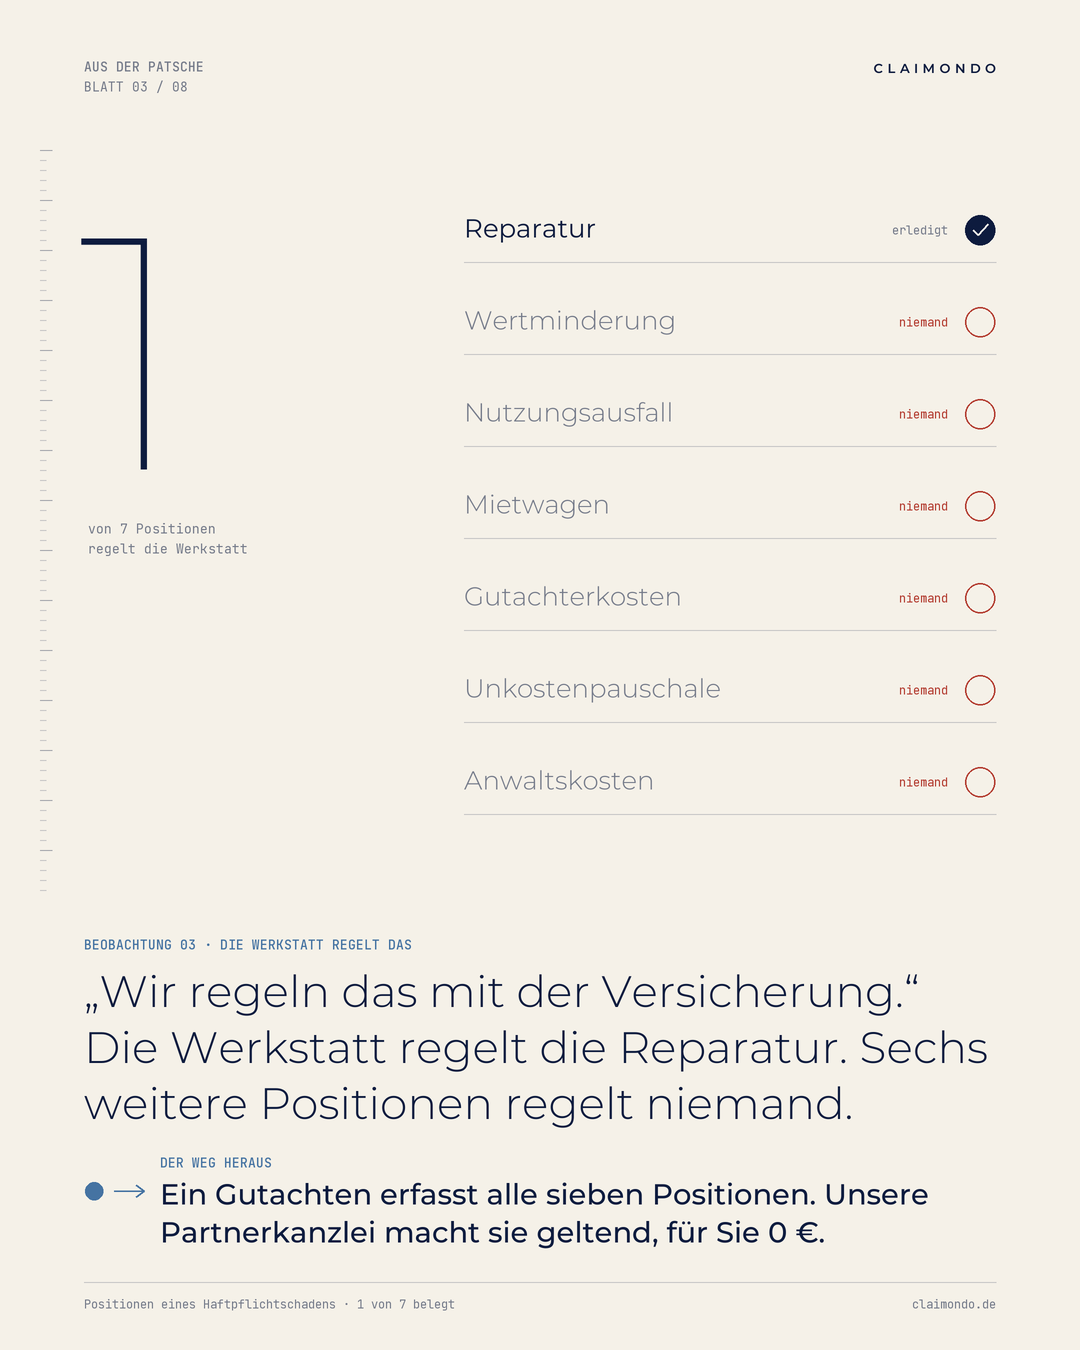
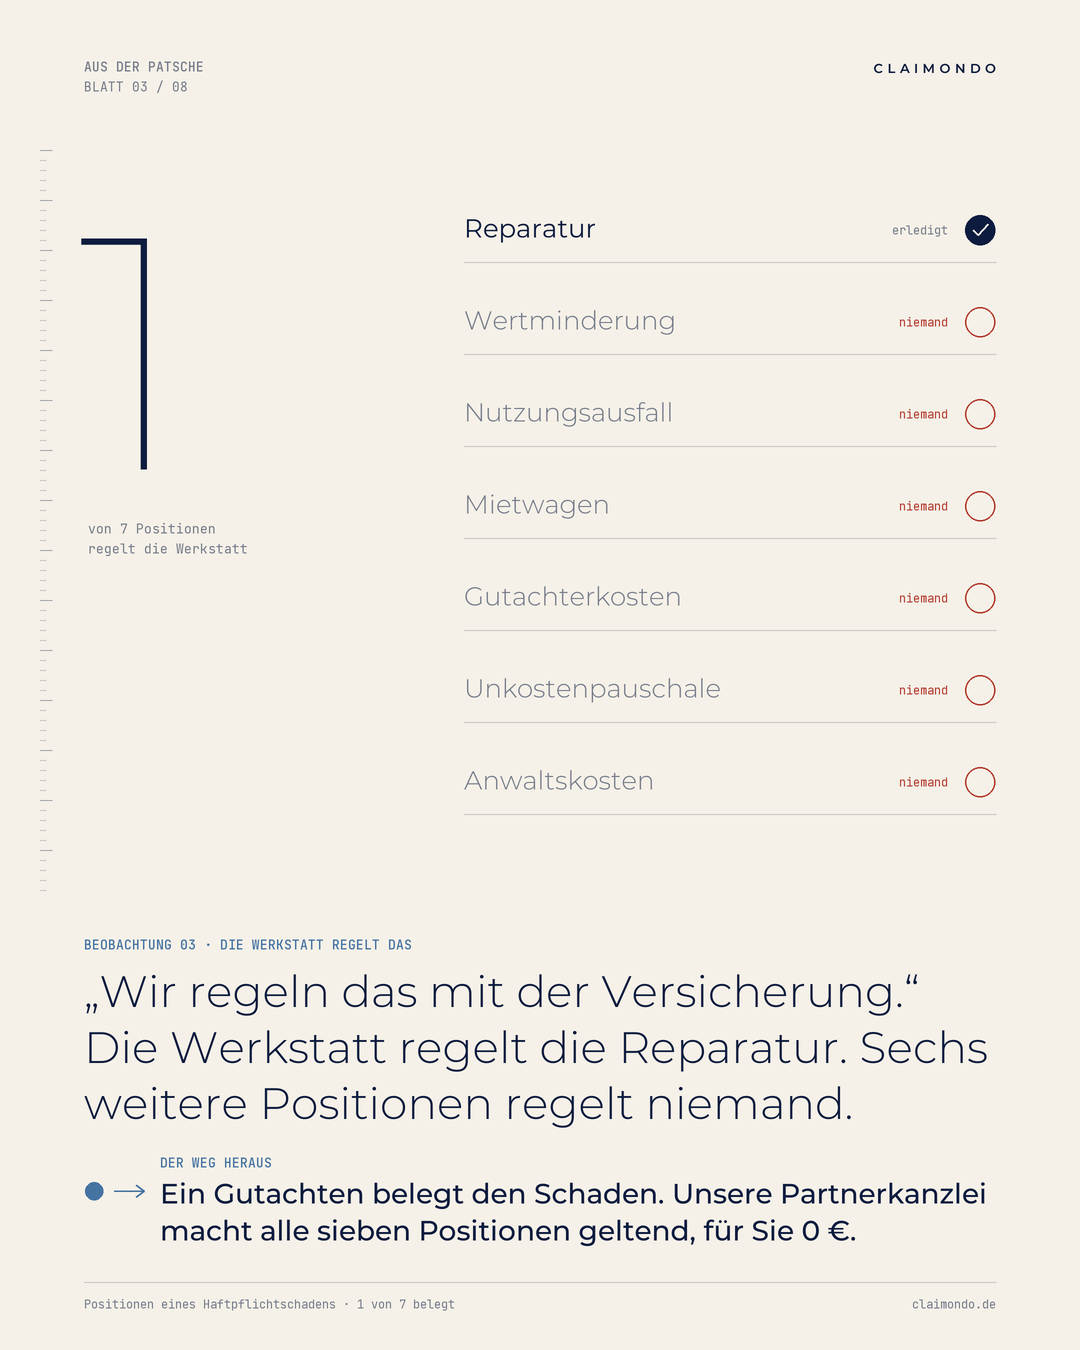
fix(marketing): Blatt 03 fachlich praezisiert + Copy-Lint-Ratchet verdrahtet (Abnahme-Befund)
Abnahme-Session (05.09.) zu #5876: "Ein Gutachten erfasst alle sieben Positionen" war
sachlich falsch — Mietwagen, Unkostenpauschale und Anwaltskosten sind Anspruchs-, keine
Gutachten-Positionen. Neu: "Ein Gutachten belegt den Schaden. Unsere Partnerkanzlei macht
alle sieben Positionen geltend, fuer Sie 0 EUR." (RDG-Subjekt bleibt die Partnerkanzlei).
Blatt 03 neu gerendert (Generator deterministisch, Repo- und Session-Render md5-identisch),
README und Vorschau nachgezogen. Auflage vor der Einbindung (anwaltliche Durchsicht der
absoluten Rechtsaussagen auf Blatt 02/06/07) in README und Abnahme-Datei eingetragen.

Anregung der Abnahme umgesetzt: die Bildtexte leben als String-Literale im Generator und
waren fuer check:copy-lint unsichtbar -> EXTRA_FILES im Scanner. Dabei aufgefallen: der
Scanner aus #5862 war nie verdrahtet (kein npm-Skript, kein CI-Step, keine Baseline) —
ein stummer Waechter. Jetzt: package.json check:copy-lint, CI-Step Copy-Lint-Ratchet,
Baseline mit 19 grandfathered Umlaut-Files (URLs/Slugs/Log-Strings + 1 echter UI-Treffer
haftpflicht/page.tsx "Komplexe Faelle" -> Boy-Scout), AGENTS.md-Abschnitt.
Positivkontrolle: Probe-Satz "Wir verhandeln direkt mit der Versicherung" im Generator
-> 1 RDG-Treffer, entfernt -> 0; --ratchet exit 0.

Audit:
- Build: n/a fuer Assets/Docs; node --check Scanner gruen, py_compile gruen, Ratchet exit 0
- UI: kein neuer Einstiegspunkt
- Redundanz: keine; Scanner-Erweiterung nutzt die bestehende Literal-Extraktion
[…]

Changed region(s): [[0.1528, 0.8711, 0.9167, 0.9333]]

diff --git a/docs/marketing/aus-der-patsche/generator.py b/docs/marketing/aus-der-patsche/generator.py
@@ -413,7 +413,7 @@ def sheet_03():
     chrome(
         sh, 3, "Beobachtung 03 · Die Werkstatt regelt das",
         "„Wir regeln das mit der Versicherung.“ Die Werkstatt regelt die Reparatur. Sechs weitere Positionen regelt niemand.",
-        "Ein Gutachten erfasst alle sieben Positionen. Unsere Partnerkanzlei macht sie geltend, für Sie 0 €.",
+        "Ein Gutachten belegt den Schaden. Unsere Partnerkanzlei macht alle sieben Positionen geltend, für Sie 0 €.",
         "Positionen eines Haftpflichtschadens · 1 von 7 belegt",
     )
     return sh.save("patsche-03-die-werkstatt-regelt-das.png")

diff --git a/docs/marketing/aus-der-patsche/README.md b/docs/marketing/aus-der-patsche/README.md
@@ -8,7 +8,7 @@ Acht Situationen nach dem unverschuldeten Unfall, gezeichnet wie Messblätter: e
 |---|---|---|---|
 | 01 Der Anruf | `patsche-01-der-anruf.png` | Die gegnerische Versicherung ruft an. Freundlich und schnell. Am Ende zahlt sie, was ihr eigener Gutachter festlegt. | Sie dürfen Ihren eigenen Gutachter wählen (§ 249 BGB). Termin meist in unter 48 Stunden, für Sie 0 €. |
 | 02 Der Brief | `patsche-02-der-brief.png` | „Wir schicken Ihnen unseren Gutachter vorbei." Er arbeitet für die, die ihn schicken. Das steht nicht im Brief. | Sie wählen den Gutachter. Bei fremder Schuld zahlt ihn die gegnerische Versicherung trotzdem. |
-| 03 Die Werkstatt regelt das | `patsche-03-die-werkstatt-regelt-das.png` | „Wir regeln das mit der Versicherung." Die Werkstatt regelt die Reparatur. Sechs weitere Positionen regelt niemand. | Ein Gutachten erfasst alle sieben Positionen. Unsere Partnerkanzlei macht sie geltend, für Sie 0 €. |
+| 03 Die Werkstatt regelt das | `patsche-03-die-werkstatt-regelt-das.png` | „Wir regeln das mit der Versicherung." Die Werkstatt regelt die Reparatur. Sechs weitere Positionen regelt niemand. | Ein Gutachten belegt den Schaden. Unsere Partnerkanzlei macht alle sieben Positionen geltend, für Sie 0 €. |
 | 04 Der Kostenvoranschlag | `patsche-04-kostenvoranschlag.png` | Ein Kostenvoranschlag schätzt. Ein Gutachten beweist. Die Versicherung kennt den Unterschied ganz genau. | Bei fremder Schuld zahlt die gegnerische Versicherung Ihr Gutachten. Es dokumentiert jede Position. |
 | 05 Der Mietwagen | `patsche-05-der-mietwagen.png` | „Ein Mietwagen ist nicht gedeckt." Jeder Tag ohne Auto ist trotzdem Geld wert. Das nennt sich Nutzungsausfall. | 23 bis 219 € pro Tag, je nach Fahrzeug. Das Gutachten legt die Klasse fest, die Gegenseite zahlt. |
 | 06 Die Kürzung | `patsche-06-die-kuerzung.png` | Der Prüfdienst der Versicherung kürzt Ihr Gutachten. Im Schnitt um 30 bis 40 Prozent. Er nennt das Prüfung. | Unsere Partnerkanzlei holt gekürzte Beträge zurück. Für Sie 0 €, die Kosten trägt die Gegenseite. |
@@ -47,4 +47,4 @@ Ein neues Blatt ist eine Funktion `sheet_NN()`; Rahmen (Serienmarke, Messkante, 
 
 ## Einbindung (offen, Task D8 im Plan `docs/superpowers/plans/2026-09-04-copy-audit-umsetzungsplan.md`)
 
-Vorschlag: Startseite unter dem Hero (01 oder 06), Stadtseiten (02), `/check`-Ergebnis Gegner/Teilschuld (03), FAQ Mietwagen (05), Ratgeber Restwert (07), FAQ Bagatelle (08); Anzeigen: 06 als Bildanzeige. Die Einbindung ist ein nutzersichtbarer Pfad und bekommt nach Regel 4 einen Prod-Smoke (Playwright: `alt`, `innerText` daneben, LCP/CLS). Soll-Blatt: `memory/abnahmen/2026-09-05-aus-der-patsche-bildserie.md`.
+Vorschlag: Startseite unter dem Hero (01 oder 06), Stadtseiten (02), `/check`-Ergebnis Gegner/Teilschuld (03), FAQ Mietwagen (05), Ratgeber Restwert (07), FAQ Bagatelle (08); Anzeigen: 06 als Bildanzeige. **Auflage vor der Einbindung (Abnahme 05.09.):** anwaltliche Durchsicht der absoluten Rechtsaussagen wie beim Unfallguide, konkret Blatt 02 „zahlt ihn die gegnerische Versicherung trotzdem" (Bagatellgrenze), Blatt 07 „Diesen Wert dürfen Sie zugrunde legen" (BGH: nicht, wenn vor dem Verkauf ein zumutbares höheres Angebot vorlag) und Blatt 06 „Er nennt das Prüfung" (pointiert, Quelle vorhanden). Die Einbindung ist ein nutzersichtbarer Pfad und bekommt nach Regel 4 einen Prod-Smoke (Playwright: `alt`, `innerText` daneben, LCP/CLS). Soll-Blatt: `memory/abnahmen/2026-09-05-aus-der-patsche-bildserie.md`.

diff --git a/AGENTS.md b/AGENTS.md
@@ -699,6 +699,14 @@ CI fährt `npm run check:anthropic-stop-reason -- --ratchet`. Lokal (ohne Flag) 
 
 **Baseline 0** — kein Bestand, kein Grandfathering. Jeder neue erzwungene Tool-Aufruf ohne `stop_reason`-Prüfung blockt sofort (nachgemessen: Probe-Datei eingebaut → exit 1, entfernt → exit 0). Der einzige Alt-Verstoß (`flow-intake/extract.ts`) ist mit #5377 behoben. Vollständige Liste aller API-Aufrufer + Messkommando: Marker `broadcast-anthropic-stop-reason-nie-geprueft`.
 
+# Copy-Lint-Gate (Ratchet)
+
+**Nutzersichtbare Marketing-Texte dürfen keine Rechtsdienstleistung behaupten.** Claimondo koordiniert, kommuniziert und rechnet ab; verhandeln, durchsetzen, zurückholen und geltend machen tut ausschließlich „unsere Partnerkanzlei". Der Scanner (`scripts/lib/copy-lint-scan.mjs`, unit-getestet) kennt die vier real aufgetretenen Textformen: „wir verhandeln/setzen durch/holen zurück", „unser Anwalt/unseren Anwälten", die Verb-Reihung nach Komma („Wir disponieren …, führen … und setzen … durch", 36 Stadtseiten × 6 Sprachen) und Konstanten/Feeds (`brand-constants.ts`, `llms-full.txt`).
+
+CI fährt `npm run check:copy-lint -- --ratchet`. **RDG ist hart (Baseline 0)** — jeder Treffer blockt. Umlaut-Ersatz in UI-Strings (`fuer`, `pruefen`, …) ist ein Ratchet gegen `scripts/copy-lint-baseline.json` (19 grandfathered Files, Stand 05.09.: überwiegend URLs/Slugs und Log-Strings, dazu ein echter UI-Treffer `haftpflicht/page.tsx` „Komplexe Faelle" → Boy-Scout). Lokal (ohne Flag) `--warn`. Gescannt werden die Marketing-Builds (`app`/`components`/`lib`/`content`/`i18n`/`data`/`config`; bei i18n nur `de.json`) und die Einzeldateien in `EXTRA_FILES` — dort steht der Generator der Bildserie „Aus der Patsche", weil Bildtexte sonst für jeden Ratchet unsichtbar sind (Abnahme-Befund 05.09.).
+
+⚠ Der Scanner existierte seit #5862, war aber bis #5876 **nicht verdrahtet** — die Klasse „stummer Wächter" aus dem Abschnitt oben, nur ohne `RUN_*`-Schalter: ein Script, das kein Workflow aufruft. Positivkontrolle beim Verdrahten: Probe-Satz „Wir verhandeln direkt mit der Versicherung" in den Generator → 1 RDG-Treffer, entfernt → 0.
+
 # Zugriffs-Doktrin (Server-first) — Dach über die Zugriffs-Gates
 
 **Kanonische Referenz: `docs/fundament/zugriffs-doktrin.md`** (Fundament C5, #4860). Kern in einem Satz: **Client liest über Views/RPCs je Rolle, schreibt über Server-Actions mit Guard + `.select()`-Row-Check; RLS ist Sicherheitsnetz, nicht Feinsteuerung** (Verfassung §7). Ist-Stand: Client-Direkt-Selects auf Basistabellen = **0** (verifiziert) — server-first ist gelebt.
